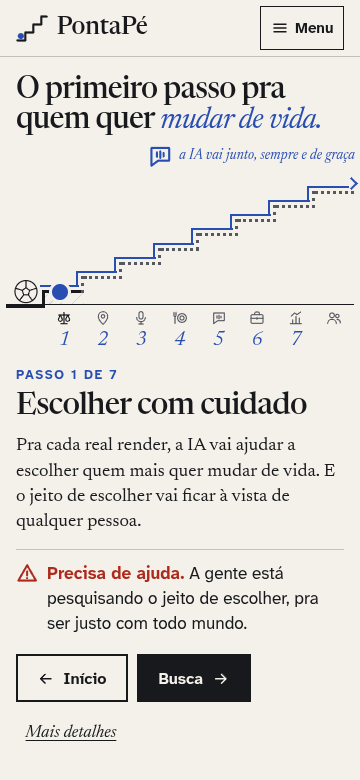
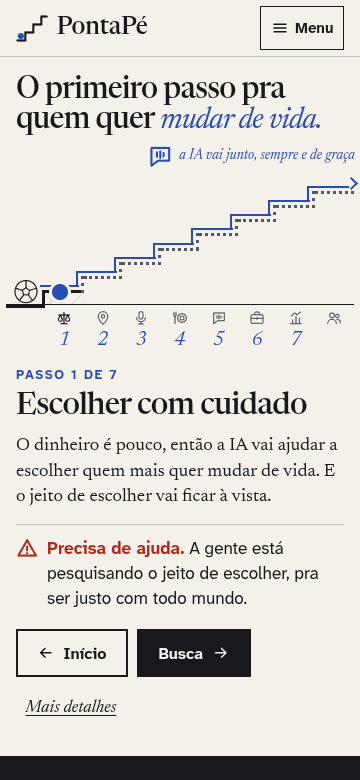
F37: texto do Sistema com o motivo do Lucas
'Pra cada real render' soava como conta de banco. Agora diz que o
dinheiro é pouco, cabe no mesmo tamanho e não aponta pra ninguém.
Revisão do Regente.

diff --git a/src/data/site/journey.ts b/src/data/site/journey.ts
@@ -30,7 +30,7 @@ export const OPENING = 'A IA vai ajudar a escolher com cuidado quem mais quer mu
 // found and talks to the AI. The AI support comes before the job (D028), and the AI never stops.
 export const STEPS: JourneyStep[] = [
   { shortName: 'Sistema', title: 'Escolher com cuidado', icon: 'scale', module: 'M3', aiFrom: true,
-    text: 'Pra cada real render, a IA vai ajudar a escolher quem mais quer mudar de vida. E o jeito de escolher vai ficar à vista de qualquer pessoa.',
+    text: 'O dinheiro é pouco, então a IA vai ajudar a escolher quem mais quer mudar de vida. E o jeito de escolher vai ficar à vista.',
     now: 'Precisa de ajuda. A gente está pesquisando o jeito de escolher, pra ser justo com todo mundo.' },
   { shortName: 'Busca', title: 'Ir até a pessoa', icon: 'pin', module: 'M3',
     text: 'Um voluntário na rua, um panfleto, um ponto público ou este site. Vários jeitos de chegar até quem quer recomeçar.',

diff --git a/docs/frentes/F37-sistema-primeiro/DIARIO.md b/docs/frentes/F37-sistema-primeiro/DIARIO.md
@@ -161,6 +161,12 @@ Commits `15e5ff7` e o seguinte, na branch `design/f37-sistema-primeiro`. A PR ai
 
 Prints em `prints/`: `antes-*` é a main em `9de590d`, `depois-*` é esta branch. 1920×914 e 360×780 no Início e com o passo 1 aberto, a 404 em 1440×900 e a imagem de compartilhar (`*-og.png`).
 
+**Ajuste da revisão do Regente.** "Pra cada real render" é conta de banco e o leigo trava. O texto do Sistema passa a usar o motivo do próprio Lucas, que o dinheiro não é infinito:
+
+> O dinheiro é pouco, então a IA vai ajudar a escolher quem mais quer mudar de vida. E o jeito de escolher vai ficar à vista.
+
+Medido na bancada com o passo 1 aberto: a sugestão do Regente com "de qualquer pessoa" tinha 142 letras e, com "de todo mundo", ganhava uma linha em 390. Terminando em "à vista" ficam 123 letras, com as mesmas linhas da frase velha ou menos nos seis tamanhos (2, 2, 2, 2, 3, 3 contra 2, 3, 3, 2, 3, 4). "O dinheiro é pouco" fala do projeto, não da pessoa: ninguém lê ali que ficou de fora. Prints do passo 1 refeitos.
+
 ### Onde parei
 
-Esperando o OK do Lucas pela voz do Regente. Se ele trocar um nome (Chegar junto, Primeiro contato, A base), é trocar a palavra no `journey.ts`, na 404 e nos docs, refazer os prints e abrir a PR `F37 · A escada começa pelo sistema` com rebase na `main`. Servidores e bancada parados; sobem de novo em um minuto.
+Esperando o OK do Lucas pela voz do Regente, que está confirmando a frase curta de abertura com ele. Se ele trocar um nome (Chegar junto, Primeiro contato, A base), é trocar a palavra no `journey.ts`, na 404 e nos docs, refazer os prints e abrir a PR `F37 · A escada começa pelo sistema` com rebase na `main`. Servidores e bancada parados; sobem de novo em um minuto.
